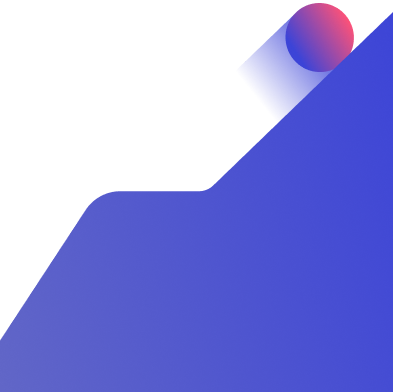
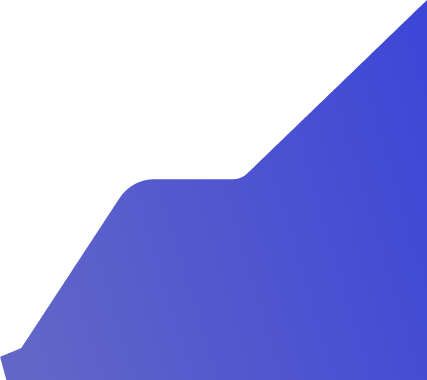
.

Changed region(s): [[0.6107, 0.0, 1.0, 0.3184], [0.0, 0.3474, 0.6718, 1.0], [0.6718, 0.3184, 0.7023, 0.3474]]

diff --git a/src/assets/css/styles.css b/src/assets/css/styles.css
@@ -566,6 +566,21 @@ Version      :1.0
 
 /* backgrounds  */
 @layer components {
+    .bg-hero::after {
+        position: absolute;
+        content: "";
+        background: rgba(255, 82, 119, 0.2);
+        filter: blur(80px);
+        width: 100%;
+        height: 40%;
+        background-size: contain;
+        background-position: top;
+        background-repeat: no-repeat;
+        bottom: 0px;
+        left: 0px;
+        z-index: -1;
+    }
+
     .bg-ribbion::after {
         position: absolute;
         content: "";
@@ -636,8 +651,113 @@ Version      :1.0
     }
 
     .bg-dotted_bg {
-        transition: background-position 1.5s ease-in;
+        transition: background-position 4.5s ease-out;
         will-change: background-position;
+    }
+
+    .bg-ballbgmobile:before {
+        background-size: 280px;
+        background-position-y: 30.4%;
+        background-position-x: 68%;
+        rotate: -1.5deg;
+    }
+
+    @keyframes moveBg {
+        0% {
+            background-position: 65% 33.4%;
+        }
+
+        100% {
+            background-position: 68% 30.4%;
+        }
+    }
+
+    .bg-ballbgmobile.bg-animate:before {
+        animation: moveBg 2s forwards;
+    }
+
+    @media screen and (max-width: 1499px) {
+        .bg-ballbgmobile:before {
+            background-position-y: 32.4%;
+        }
+
+        @keyframes moveBg {
+            0% {
+                background-position: 65% 35.4%;
+            }
+
+            100% {
+                background-position: 68% 32.4%;
+            }
+        }
+
+    }
+
+    @media screen and (max-width: 1281px) {
+        .bg-ballbgmobile:before {
+            background-position-y: 30%;
+        }
+
+        @keyframes moveBg {
+            0% {
+                background-position: 65% 33.4%;
+            }
+
+            100% {
+                background-position: 68% 30.4%;
+            }
+        }
+    }
+
+    @media screen and (max-width: 1025px) {
+        .bg-ballbgmobile:before {
+            background-position-y: 34.5%;
+        }
+
+        @keyframes moveBg {
+            0% {
+                background-position: 65% 34.5%;
+            }
+
+            100% {
+                background-position: 68% 35.5%;
+            }
+        }
+    }
+
+    @media screen and (max-width: 991px) {
+        .bg-ballbgmobile:before {
+            background-position-y: 18%;
+            background-size: 200px;
+        }
+
+        @keyframes moveBg {
+            0% {
+                background-position: 65% 33%;
+            }
+
+            100% {
+                background-position: 68% 31%;
+            }
+        }
+    }
+
+    @media screen and (max-width: 480px) {
+        .bg-ballbgmobile:before {
+            background-position-y: 45%;
+            background-size: 130px;
+            background-position-x: 83%;
+            rotate: -21deg;
+        }
+        @keyframes moveBg {
+            0% {
+                background-position: 79% 47%;
+            }
+
+            100% {
+                background-position: 83% 45%;
+            }
+        }
     }
 
     @media screen and (max-width: 991px) {

diff --git a/src/components/sections/AlphaStats.tsx b/src/components/sections/AlphaStats.tsx
@@ -1,46 +1,32 @@
 import React, { useEffect, useRef } from 'react'
-import gsap from 'gsap'
-import { ScrollTrigger } from 'gsap/ScrollTrigger'
 
 const AlphaStats: React.FC = () => {
-    const sectionRef = useRef<HTMLElement>(null);
+    const sectionRef = useRef<HTMLElement>(null)
 
     useEffect(() => {
-        gsap.registerPlugin(ScrollTrigger);
+        const observer = new IntersectionObserver(([entry]) => {
+            if (entry.isIntersecting) {
+                sectionRef.current?.classList.add('bg-animate')
+            }
+        }, { threshold: 0.1 })
 
-        const section = sectionRef.current;
-        if (section) {
-            gsap.fromTo(section,
-                {
-                    backgroundPositionX: "100%",
-                },
-                {
-                    duration: 1.5,
-                    ease: "power2.out",
-                    backgroundPositionX: "80%",
-                    scrollTrigger: {
-                        trigger: section,
-                        start: "top center",
-                        toggleActions: "play none none reverse"
-                    }
-                }
-            );
-        }
-
-        return () => {
-            ScrollTrigger.getAll().forEach(trigger => trigger.kill());
-        };
-    }, []);
+        if (sectionRef.current) observer.observe(sectionRef.current)
+        return () => observer.disconnect()
+    }, [])
 
     return (
         <section
             ref={sectionRef}
-            className='lg:py-100 md:py-70 py-100 relative md:bg-ballbg bg-ballbgmobile bg-cover bg-center after:absolute after:content-[""] after:bg-gradient-to-t after:from-white after:to-transparent after:w-full after:h-full after:bottom-0 after:left-0 after:blur-[50px] after:z-[-1] bg-no-repeat overflow-hidden'
+            className='lg:py-100 md:py-70 md:pt-0 pt-100 md:pb-0 pb-50 relative md:bg-ballbg bg-ballbgmobile bg-cover bg-center after:absolute after:content-[""] after:bg-gradient-to-t after:from-white after:to-transparent after:w-[90%] after:h-[90%] after:bottom-0 after:left-0 after:blur-[50px] after:z-[-1] bg-no-repeat overflow-hidden before:absolute before:content-[""] 
+            before:inset-0 
+            before:bg-[url("../images/index/ball.png")] 
+            before:bg-no-repeat
+            before:z-0'
         >
             <div className="container">
-                <div className="flex flex-col gap-10">
+                <div className="flex flex-col md:gap-10 gap-20">
                     <div className='flex flex-col text-white md:pb-0 pb-5'>
-                        <h3 className='md:w-full w-4/5'>Récord en Finect Alpha con más de</h3>
+                        <h3 className='xl:w-full lg:w-3/5 md:w-1/2'>Récord en Finect Alpha con más de</h3>
                         <h1 className='xl:text-[300px] lg:text-[220px] md:text-[180px] leading-none w-min float-right sm:text-9xl text-8xl'>77K</h1>
                         <h3 className='text-secondary'>Escuchas anuales</h3>
                     </div>

diff --git a/src/components/sections/ETFStats.tsx b/src/components/sections/ETFStats.tsx
@@ -3,14 +3,14 @@ import gsap from 'gsap'
 import { ScrollTrigger } from 'gsap/ScrollTrigger'
 
 const ETFStats: React.FC = () => {
-    const sectionRef = useRef<HTMLElement>(null);
+    const containerRef = useRef<HTMLDivElement>(null); // Changed from HTMLElement to HTMLDivElement
 
     useEffect(() => {
         gsap.registerPlugin(ScrollTrigger);
 
-        const section = sectionRef.current;
-        if (section) {
-            gsap.fromTo(section,
+        const container = containerRef.current;
+        if (container) {
+            gsap.fromTo(container,
                 {
                     clipPath: "inset(0 50% 0 0)"
                 },
@@ -19,7 +19,7 @@ const ETFStats: React.FC = () => {
                     duration: 1.5,
                     ease: "power2.out",
                     scrollTrigger: {
-                        trigger: section,
+                        trigger: container,
                         start: "top center",
                         toggleActions: "play none none reverse"
                     }
@@ -33,15 +33,15 @@ const ETFStats: React.FC = () => {
     }, []);
 
     return (
-        <section
-            ref={sectionRef}
-            className='lg:py-100 md:py-70 py-50 relative bg-graphbg md:bg-contain bg-cover bg-no-repeat bg-right-bottom'
-        >
-            <div className="container">
-                <div className='flex flex-col text-white md:mb-0 mb-14'>
-                    <h3 className='md:w-full w-4/5'>El interés por los ETFs se dispara</h3>
+        <section className='lg:py-100 md:py-70 py-50 relative lg:px-0 px-4'>
+            <div
+                ref={containerRef}
+                className="container relative bg-graphbg bg-contain bg-no-repeat bg-right-bottom "
+            >
+                <div className='flex flex-col text-white md:mb-0 lg:py-100 md:py-70 py-50 md:pb-0 pb-40'>
+                    <h3 className='md:w-full w-11/12'>El interés por los ETFs se dispara</h3>
                     <h1 className='xl:text-[300px] lg:text-[220px] md:text-[180px] leading-none w-min float-right sm:text-9xl text-8xl'>187%</h1>
-                    <h3 className='text-secondary'>Crecimiento YTD del</h3>
+                    <h4 className='text-secondary'>Crecimiento YTD del</h4>
                 </div>
             </div>
         </section>

diff --git a/src/components/sections/Hero.tsx b/src/components/sections/Hero.tsx
@@ -9,7 +9,7 @@ const Hero: React.FC = () => {
   const dividerRef = useRef<HTMLDivElement>(null);
 
   useEffect(() => {
-    const tl = gsap.timeline({ defaults: { ease: 'power3.out' }});
+    const tl = gsap.timeline({ defaults: { ease: 'power3.out' } });
 
     tl.set([yearRef.current, subtitleRef.current, logoRef.current], {
       y: 100,
@@ -25,12 +25,12 @@ const Hero: React.FC = () => {
   }, []);
 
   return (
-    <section className="min-h-screen flex lg:pb-100 md:pb-70 pb-50 lg:pt-36 md:pt-28 pt-70">
+    <section className="min-h-screen flex lg:pb-100 md:pb-70 pb-50 lg:pt-36 md:pt-28 pt-70 bg-hero relative">
       <div className="container flex flex-col flex-grow">
-        <div className="flex md:justify-between justify-center lg:gap-8 md:gap-5 gap-4 flex-grow md:flex-row flex-col ">
+        <div className="flex md:justify-between justify-center lg:gap-8 md:gap-5 gap-4 flex-grow md:flex-row flex-col items-center">
           {/* Logo */}
-          <div className="md:w-2/5 overflow-hidden">
-            <figure className="flex flex-col flex-grow justify-center items-center h-full "
+          <div className="md:w-2/5 overflow-hidden h-max">
+            <figure className="flex flex-col flex-grow justify-center items-center h-max "
               ref={logoRef}
             >
               <img
@@ -44,12 +44,12 @@ const Hero: React.FC = () => {
           {/* Divider (No animation) */}
           <div
             ref={dividerRef}
-            className="bg-borderColor-border2 md:w-1 w-full md:h-full h-1 self-stretch md:block hidden"
+            className="bg-borderColor-border2 md:w-[2px] w-full md:h-full h-1 md:block hidden max-h-[185px]"
           />
 
           {/* Text */}
-          <div className="md:w-2/5">
-            <div className="flex flex-col text-center justify-center h-full overflow-hidden md:gap-0 gap-4">
+          <div className="md:w-2/5 h-max">
+            <div className="flex flex-col text-center justify-center h-max overflow-hidden md:gap-0 gap-4">
               <div className="overflow-hidden">
                 <h1 ref={yearRef} className="gradient-text md:text-9xl text-[116px] lead transform-gpu leading-none">
                   2024

diff --git a/src/components/sections/ProductStats.tsx b/src/components/sections/ProductStats.tsx
@@ -38,12 +38,12 @@ const ProductStats: React.FC = () => {
             <div className="container">
                 <div className="flex md:flex-row flex-col text-white lg:gap-5 gap-3">
                     <div className="md:w-2/5">
-                        <figure>
+                        <figure className='flex justify-center items-center'>
                             <img 
                                 ref={imageRef}
                                 src={diamondCircleImg} 
                                 alt="diamondCircleImg" 
-                                className='w-full'
+                                className='md:w-full w-4/5'
                             />
                         </figure>
                     </div>
@@ -51,7 +51,7 @@ const ProductStats: React.FC = () => {
                         <div className='flex flex-col h-full justify-end md:text-start text-center'>
                             <h3>Más de</h3>
                             <h1 className='xl:text-[280px] lg:text-[200px] md:text-[150px] text-[100px] leading-none md:w-min md:float-left sm:text-8xl text-7xl'>3.000</h1>
-                            <h3>Comparaciones de productos de inversión <span className='text-secondary'>al día</span></h3>
+                            <h3 className='md:w-full w-11/12 md:mx-0 mx-auto'>Comparaciones de productos de inversión <span className='text-secondary'>al día</span></h3>
                         </div>
                     </div>
                 </div>

diff --git a/src/components/sections/VideoStats.tsx b/src/components/sections/VideoStats.tsx
@@ -36,7 +36,7 @@ const VideoStats: React.FC = () => {
     }, []);
 
     return (
-        <section className='lg:py-100 md:py-70 py-50 relative bg-cover bg-no-repeat bg-center after:absolute after:content-[""] after:bg-secondary after:opacity-10 after:blur-[50px] after:w-full after:h-1/3 after:bg-contain after:bg-top after:bg-no-repeat after:top-0 after:left-0 after:z-[10]'>
+        <section className='lg:py-100 md:py-70 py-50 md:pt-0 pt-100 relative bg-cover bg-no-repeat bg-center after:absolute after:content-[""] after:bg-secondary after:opacity-10 after:blur-[50px] after:w-full after:h-1/3 after:bg-contain after:bg-top after:bg-no-repeat after:top-0 after:left-0 after:z-[10]'>
             <div className="container">
                 <div className="flex flex-col text-center text-white items-center">
                     <h1 className='xl:text-[300px] lg:text-[220px] md:text-[180px] leading-none w-min float-right sm:text-9xl text-8xl'>+100K</h1>
@@ -48,7 +48,7 @@ const VideoStats: React.FC = () => {
                     ref={imageRef}
                     src={videoStatsGraph}
                     alt="graph"
-                    className='w-full h-full md:min-h-full min-h-[50vh] md:mt-0 mt-10'
+                    className='w-full h-full md:min-h-full min-h-[50vh] md:mt-0 mt-3'
                 />
             </figure>
         </section>

diff --git a/src/components/sections/TalksStats.tsx b/src/components/sections/TalksStats.tsx
@@ -32,10 +32,10 @@ const TalksStats: React.FC = () => {
     }, []);
 
     return (
-        <div className='md:pt-100'>
+        <div className='relative md:pt-100 before:absolute before:content-[""] before:top-[-20%] before:left-0 before:w-full before:h-[40%] before:bg-[#5a60ca] before:blur-[50px] before:opacity-50 before:-z-100'>
             <section
                 ref={sectionRef}
-                className='lg:pt-100 lg:pb-72 md:py-70 py-50 relative bg-ribbion2 z-100 overflow-visible'
+                className='lg:pt-100 lg:pb-72 md:py-70 py-50 relative bg-ribbion2 z-100 overflow-visible '
             >
                 <div className="container md:pt-100">
                     <div className="flex flex-col text-white lg:pt-100 md:pt-70 pt-100">

diff --git a/src/pages/Home.tsx b/src/pages/Home.tsx
@@ -17,15 +17,11 @@ const Home: React.FC = () => {
         <FinancialAdvice />
         <VideoStats />
       </div>
-      <div className='bg-background-gradientSecondary'>
-        <AlphaStats />
+      <AlphaStats />
+      <div className='relative bg-gradient-to-b from-[#4c53d100] via-[#4C53D1] via-[-100%] via-[#2A30A8] via-[28.5%] to-[#2A2D67]'>
         <TalksStats />
-        <div className='bg-[#2a30a0]'>
-          <ProductStats />
-        </div>
-        <div className='bg-[#2a2f85]'>
-          <ETFStats />
-        </div>
+        <ProductStats />
+        <ETFStats />
       </div>
     </div>
   )

diff --git a/src/components/sections/FinancialAdvice.tsx b/src/components/sections/FinancialAdvice.tsx
@@ -12,7 +12,7 @@ const FinancialAdvice: React.FC = () => {
         if (section) {
             gsap.fromTo(section,
                 {
-                    backgroundPosition: "-50% -50%",
+                    backgroundPosition: "80% 80%",
                 },
                 {
                     backgroundPosition: "100% 100%",

diff --git a/tailwind.config.js b/tailwind.config.js
@@ -55,6 +55,7 @@ module.exports = {
         ballbg: "url('../images/bg/ball_bg.png')",
         ballbgmobile: "url('../images/bg/ball_bg_mobile.png')",
         graphbg: "url('../images/bg/Graph.png')",
+        ballImg: "url('../images/index/ball.png')",
       },
       keyframes: {
         slideFadeTwistEntrance: {
